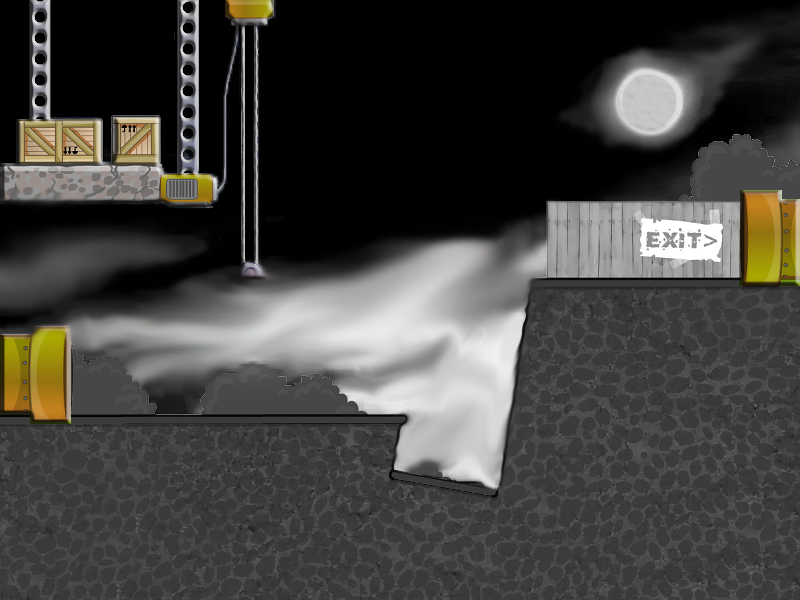
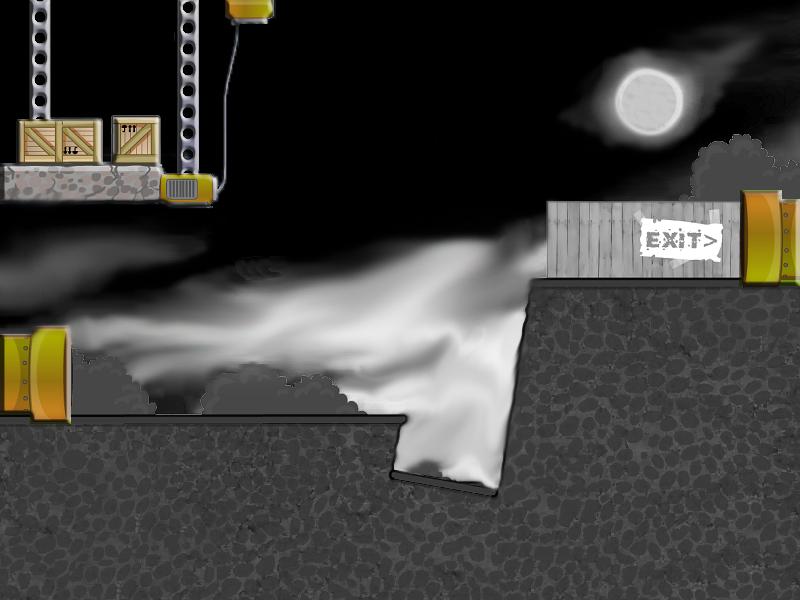
Вмъкнах талпа от Ниво1, и корпус в друг слой. Опитах се да направя ръчката да се движаи с на колегата png-то, но не успях. Мога да вмъкна като талпата и да се завърти. Промених фона.

Changed region(s): [[0.2812, 0.03, 0.3438, 0.48]]

diff --git a/JS2TeamWork_TeamCasper/CasperTheGhost/TestCollisions.html b/JS2TeamWork_TeamCasper/CasperTheGhost/TestCollisions.html
@@ -12,7 +12,7 @@
     <script src="Scripts/button.js"></script>
     <script src="Scripts/Level.js"></script>
     <script src="Scripts/Engine.js"></script>
-
+    <script src="Scripts/handle.js"></script>
     <script>
         var stage = new Kinetic.Stage({
             container: 'canvas-container',
@@ -36,6 +36,27 @@
             height: 20,
             fill: 'orange'
         })
+        var beamImage = new Image();
+        var corpusImage = new Image();
+        var beamLevel1 = new Kinetic.Image({
+            x: 232,
+            y:-64,
+            image: beamImage,
+            width:36,
+            height:480,
+
+        })
+ 
+        var corpusLevel1 = new Kinetic.Image({
+            x: 223,
+            y: 0,
+            image: corpusImage,
+            width: 50,
+            height: 27,
+
+        })
+        beamImage.src = "../Resources/beamLevel1.png"
+        corpusImage.src = "../Resources/korpus.png"
 
         var levelOne = new Level(1);
         var backgroundLayer = new Kinetic.Layer();
@@ -54,12 +75,17 @@
         }
         backgroundImage.src = "../Resources/backgroundLavel1Night.png"
         levelOne.layers.push(backgroundLayer);
-        var ourSpring = new Spring(417, 280, layerOne, stage,'spring1');
-        var ourSpringImage = ourSpring.image.rotate(0);
-        var ourButton = new Button(550, 450, layerOne, stage, ourSpring);
+        
+        var ourSpring = new Spring(417, 280, layerOne, stage, 'spring1');
+        //var ourSpringImage = ourSpring.image.rotate(0);
+        var ourButton = new Button(550, 450, layerTwo, stage, ourSpring);
+        //var ourHandle = new Handle(0, 30, layerOne, stage, 'handle');
+        //var ourButtonHandle = new Button(150, 150, layerTwo, stage, ourHandle);
         //layerOne.add(ourButton);
         layerOne.add(rect);
         layerOne.add(rect1);
+        layerOne.add(beamLevel1);
+        layerTwo.add(corpusLevel1);
         //layerOne.add(ourSpring);
         //stage.add(layerOne);
         //stage.add(layerTwo);
@@ -70,6 +96,8 @@
         var collisionObjects = [];
         collisionObjects.push(rect);
         collisionObjects.push(rect1);
+        collisionObjects.push(beamLevel1);
+        collisionObjects.push(corpusLevel1);
         collisionObjects.push(ourSpringImage);
         console.log('SpringY ' + ourSpringImage.getY());
         console.log('SpringHeight ' + ourSpringImage.getHeight());
@@ -86,7 +114,7 @@
                 //}
                 var casperX = s.image.getX();
                 var casperY = s.image.getY();
-                if (checkCollide(casperX + 100, casperY + 50, collisionObjects[i])) {
+                if (checkCollide(casperX + 50, casperY + 50, collisionObjects[i])) {
                     s.speed = 0;
                     s.image.setX(collisionObjects[i].getX() - 100);
                     inCollision.push(collisionObjects[i]);
@@ -94,7 +122,7 @@
                     s.speed = 2;
                 }
 
-                if (checkCollide(casperX + 50, casperY + 100, collisionObjects[i])) {
+                if (checkCollide(casperX + 10, casperY + 100, collisionObjects[i])) {
                     
 
                     if (collisionObjects[i].getName() == 'spring') {
